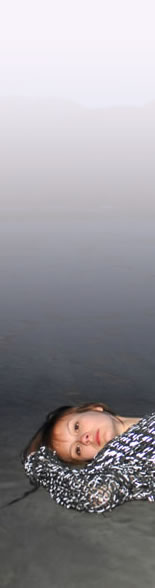
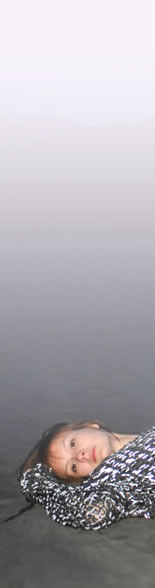
adding images and css for left sidebar background images. standardized the height and positioning of the sidebar, so it is flush with 3 rows of thumbnails

diff --git a/themes/lizcollins/style.css b/themes/lizcollins/style.css
@@ -1368,18 +1368,30 @@ h3#reply-title {
 }
 
 #primary { 
-	height: 590px;
-	border: 1px solid red; /*may have to change experimentally*/
+	height: 588px; /*may have to change experimentally*/ 
+	overflow: hidden;
 }  
 /* =Background Images for sidebar - I am going to add one of these for each image and then have the class change in the header.php file, I know this is slightly ackward, but I am adding these manually. Images have name of page.
 */
                                                                             
 #primary.reflective {
-	background: #F8F3FA url('images/reflective.jpg') no-repeat 0px 80px;  
+	background: #F8F3FA url('images/reflective.jpg') no-repeat top left;  
 }  
 
 #primary.sock-monkeys {
-	background: #F8F3FA url('images/sock-monkeys.jpg') no-repeat 0px 0px;
+	background: #F8F3FA url('images/sock-monkeys.jpg') no-repeat top left;
+} 
+
+#primary.one {
+	background: #F8F3FA url('images/one.jpg') no-repeat 0 0;
+}  
+
+#primary.two {
+	background: #F8F3FA url('images/two.jpg') no-repeat 0 0;
+}
+
+#primary.veins {
+	background: #F8F3FA url('images/veins.jpg') no-repeat 0 0;
 }
 
 #secondary {
